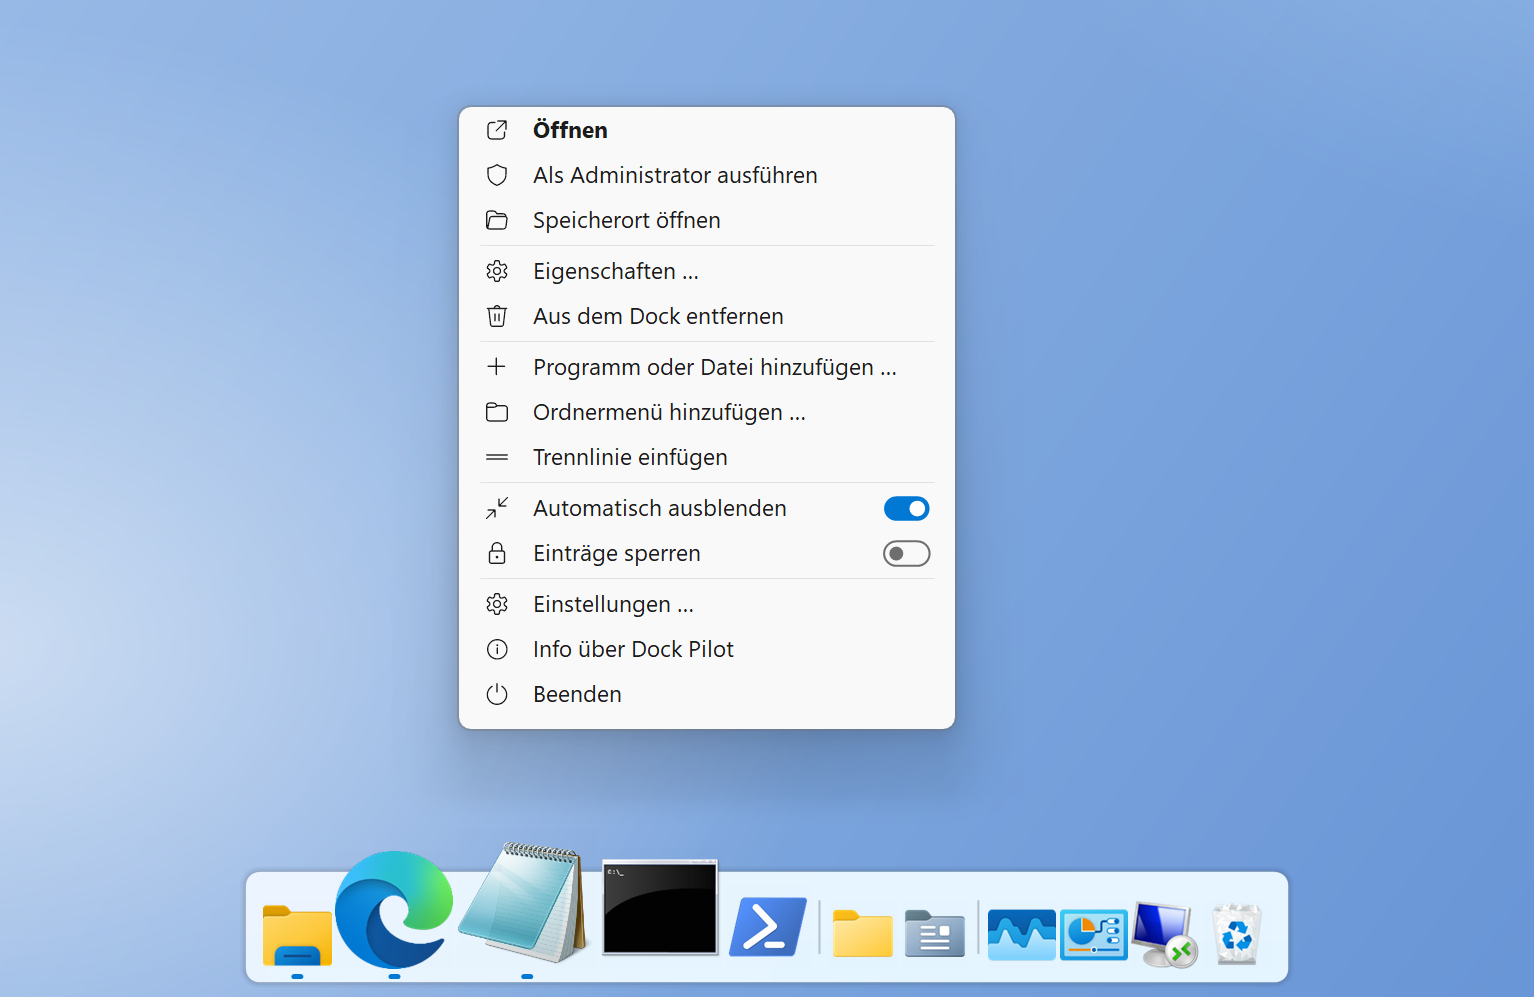
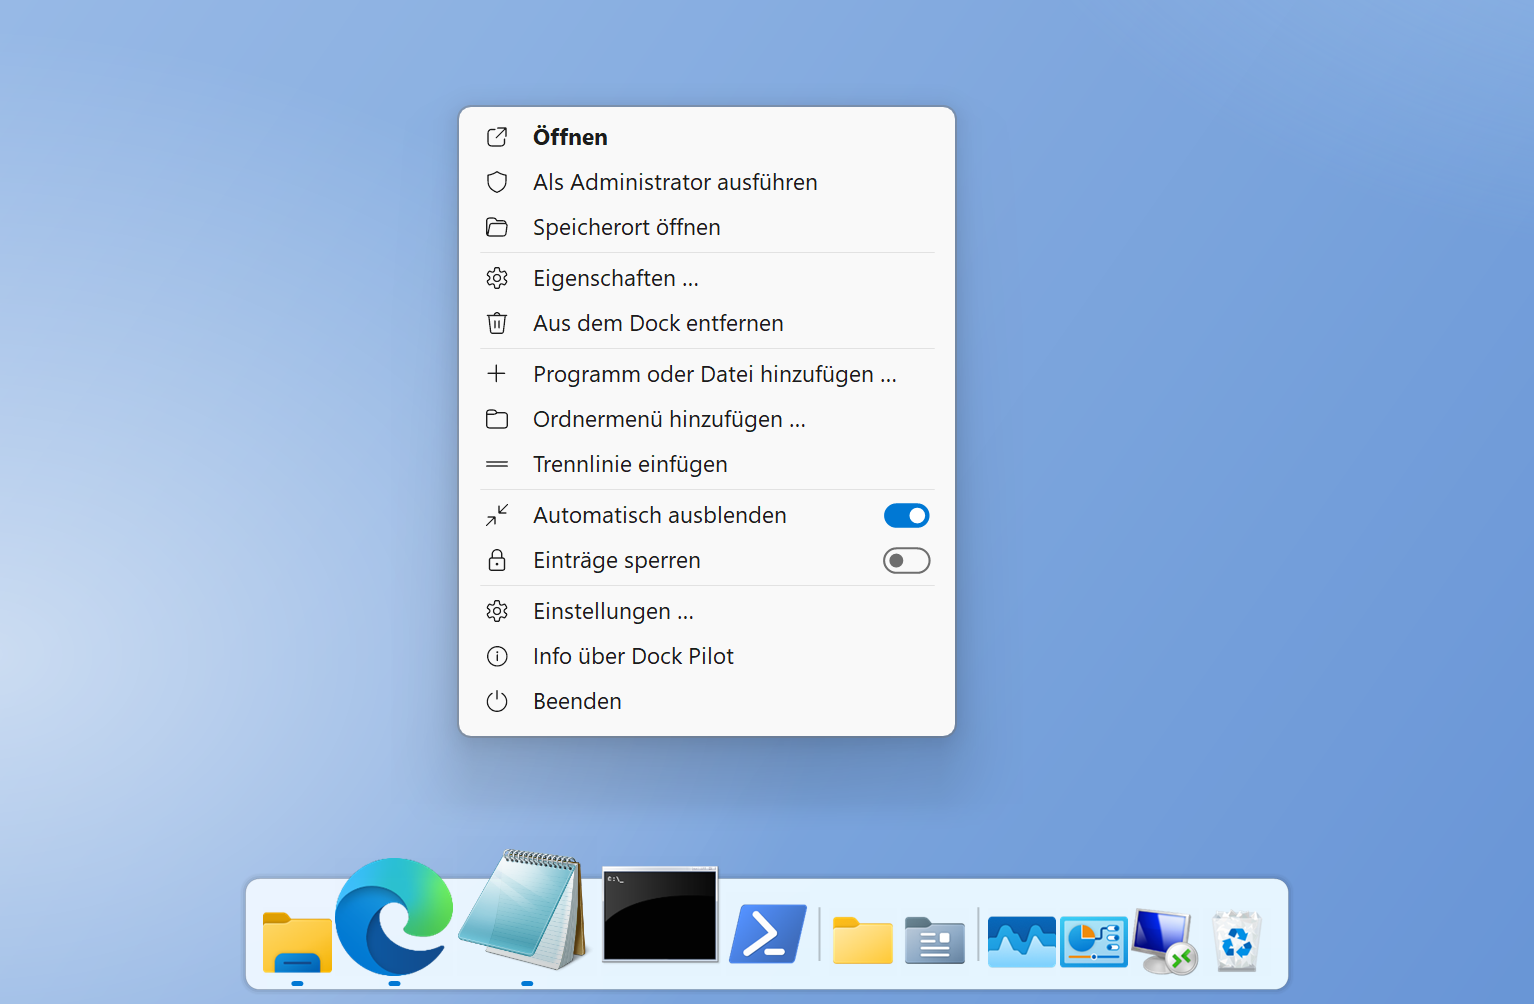
Dock Pilot 1.26.2026.1111 – Extras-Menü, Navigation, Menüabstände
Knopf Extras unten in der Navigation, Ausklappen per Mouse-Over, Symbolgrößen der Navigation, gleiche Abstände oben und unten in Menüs, neue Screenshots.

diff --git a/Quellcode/SettingsForm.cs b/Quellcode/SettingsForm.cs
@@ -6,6 +6,7 @@
 using System;
 using System.Collections.Generic;
 using System.Drawing;
+using System.IO;
 using System.Drawing.Drawing2D;
 using System.Windows.Forms;
 using Microsoft.Win32;
@@ -44,6 +45,7 @@ namespace DockPilot
         private bool _navOpen;                    // nicht angepinnt, aber ausgeklappt (liegt über dem Inhalt)
         private int _navSpace;                    // Platz, den die Navigation links belegt (230 bzw. 68 × Skalierung)
         private readonly Timer _navTimer = new Timer { Interval = 400 };
+        private readonly Timer _navHover = new Timer { Interval = 400 }; // nicht angepinnt: Maus kurz auf der Navigation → ausklappen
         private Control[] _content;               // rechts der Navigation, wird beim Anpinnen verschoben
         private Card[] _pages;
         private Stepper _labelSize;
@@ -59,7 +61,8 @@ namespace DockPilot
         private Slider _showDelay, _hideDelay;
         private Label _showValue, _hideValue;
         private ComboHotkeyBox _hotkey;
-        private ModernButton _btnSave, _btnCancel, _btnDefaults;
+        private ModernButton _btnSave, _btnCancel;
+        private ContextMenuStrip _extrasMenu;
         private Label _error;
         private PictureBox _logo;
         private UpdateBar _bar;
@@ -351,7 +354,7 @@ namespace DockPilot
             tip.SetToolTip(hkLabel, "Blendet das Dock ein und aus. Feld anklicken und Tasten drücken,\nEntf löscht das Tastenkürzel.");
 
             // --- Seite: Allgemein
-            Card general = MakeCard("Allgemein", new Rectangle(contentX, top, colW, S(314)));
+            Card general = MakeCard("Allgemein", new Rectangle(contentX, top, colW, S(206)));
             _autostart = MakeToggle();
             AddRow(general, "Mit Windows starten", _autostart, S(54));
             ModernButton import = new ModernButton();
@@ -376,40 +379,6 @@ namespace DockPilot
                 }
             };
 
-            ModernButton export = new ModernButton();
-            export.Text = "Exportieren …";
-            export.Size = new Size(S(130), S(30));
-            Label expLabel = AddRow(general, "Dock und Einstellungen sichern", export, S(196));
-            tip.SetToolTip(expLabel, "Schreibt Einträge, Einstellungen und übernommene Symbole in eine Datei,\nz. B. für einen zweiten PC. Gesichert wird der zuletzt gespeicherte Stand.");
-            export.Click += delegate
-            {
-                using (SaveFileDialog dlg = new SaveFileDialog())
-                {
-                    dlg.Title = "Dock und Einstellungen sichern";
-                    dlg.Filter = Backup.Filter;
-                    dlg.FileName = "Dock Pilot Sicherung " + DateTime.Now.ToString("yyyy-MM-dd") + Backup.Extension;
-                    if (dlg.ShowDialog(this) != DialogResult.OK) return;
-                    string err = Backup.Export(dlg.FileName);
-                    if (err != null) ShowStatus("Sicherung fehlgeschlagen: " + err, false);
-                    else ShowStatus("Sicherung gespeichert.", true);
-                }
-            };
-            ModernButton restore = new ModernButton();
-            restore.Text = "Importieren …";
-            restore.Size = new Size(S(130), S(30));
-            Label resLabel = AddRow(general, "Sicherung wiederherstellen", restore, S(246));
-            tip.SetToolTip(resLabel, "Ersetzt Einträge und Einstellungen durch den Stand aus einer Sicherungsdatei.");
-            restore.Click += delegate
-            {
-                if (ImportBackup != null && ImportBackup(this))
-                {
-                    _edit.CopyFrom(_original);
-                    LoadValues(false);
-                    _baseline = Snapshot();
-                    ShowStatus("Sicherung wiederhergestellt.", true);
-                }
-            };
-
             _pages = new Card[] { pos, icons, zoomCard, label, behave, general };
             _nav.Add('\uE7F4', "Position");
             _nav.Add('\uE8A9', "Symbole");
@@ -424,19 +393,33 @@ namespace DockPilot
                 else { _navOpen = !_navOpen; ApplyNav(); }
             };
             _nav.PinClicked += delegate { SetNavPinned(!_original.NavPinned); };
+            _nav.ExtrasClicked += delegate { ShowExtrasMenu(); };
             _navTimer.Tick += delegate
             {
                 // ausgeklappt, nicht angepinnt: wieder einklappen, sobald die Maus die Navigation verlässt
                 if (!_navOpen || _original.NavPinned || !Visible) return;
+                if (_extrasMenu != null && !_extrasMenu.IsDisposed && _extrasMenu.Visible) return; // Extras-Menü offen
                 if (!_nav.RectangleToScreen(_nav.ClientRectangle).Contains(Cursor.Position)) { _navOpen = false; ApplyNav(); }
             };
             _navTimer.Start();
+            // nicht angepinnt: verweilt die Maus kurz auf der eingeklappten Navigation, klappt sie aus (Namen sichtbar)
+            // und beim Verlassen wieder ein – ☰ funktioniert weiterhin
+            _nav.MouseEnter += delegate { if (!_original.NavPinned && !_navOpen) _navHover.Start(); };
+            _nav.MouseLeave += delegate { _navHover.Stop(); };
+            _navHover.Tick += delegate
+            {
+                _navHover.Stop();
+                if (_original.NavPinned || _navOpen || !Visible) return;
+                if (_extrasMenu != null && !_extrasMenu.IsDisposed && _extrasMenu.Visible) return;
+                if (!_nav.RectangleToScreen(_nav.ClientRectangle).Contains(Cursor.Position)) return;
+                _navOpen = true;
+                ApplyNav();
+            };
             ShowPage(0);
 
             // --- Schaltflächen
             int by = top + pageH + S(24);
             int right = contentX + colW;
-            _btnDefaults = MakeButton("Standardwerte", false, new Rectangle(contentX, by, S(140), S(34)));
             _btnCancel = MakeButton("Abbrechen", false, new Rectangle(right - S(120) - S(10) - S(120), by, S(120), S(34)));
             _btnSave = MakeButton("Speichern", true, new Rectangle(right - S(120), by, S(120), S(34)));
             _error = MakeLabel("", 12.5f, false);
@@ -444,19 +427,9 @@ namespace DockPilot
             _error.AutoEllipsis = true;
             _error.TextAlign = ContentAlignment.MiddleLeft;
             _error.Tag = "error";
-            _error.Bounds = new Rectangle(contentX + S(140) + S(12), by, _btnCancel.Left - S(12) - (contentX + S(140) + S(12)), S(34));
+            _error.Bounds = new Rectangle(contentX, by, _btnCancel.Left - S(12) - contentX, S(34));
             Controls.Add(_error);
-            _content = new Control[] { pos, icons, zoomCard, label, behave, general, _btnDefaults, _btnCancel, _btnSave, _error };
-            _btnDefaults.Click += delegate
-            {
-                Settings d = new Settings();
-                d.FirstRun = false;
-                d.UpdateCheck = _edit.UpdateCheck;
-                d.LastUpdateCheck = _edit.LastUpdateCheck;
-                d.NavPinned = _edit.NavPinned;
-                _edit.CopyFrom(d);
-                LoadValues(false);
-            };
+            _content = new Control[] { pos, icons, zoomCard, label, behave, general, _btnCancel, _btnSave, _error };
             _btnCancel.Click += delegate { _discard = true; Close(); }; // Abbrechen verwirft ohne Rückfrage
             _btnSave.Click += delegate { Save(); };
 
@@ -868,6 +841,88 @@ namespace DockPilot
             BeginInvoke((MethodInvoker)ApplyTheme);
         }
 
+        // ------------------------------------------------------------------ Extras (unten in der Navigation)
+
+        /// <summary>„Extras“: Menü rechts über dem Knopf (Info, Anleitung, Fehlerprotokoll, Sichern/Wiederherstellen, Standardwerte).</summary>
+        private void ShowExtrasMenu()
+        {
+            if (_extrasMenu != null) { MenuBuilder.DisposeDeep(_extrasMenu.Items); _extrasMenu.Dispose(); _extrasMenu = null; }
+            MenuBuilder mb = new MenuBuilder();
+            mb.Menu.Items.Add(mb.Item("Info über Dock Pilot", MenuHelper.Info, delegate { AboutDialog.ShowFor(this); }));
+            mb.Menu.Items.Add(mb.Item("Anleitung öffnen", MenuHelper.Document, delegate
+            {
+                OpenFile(Path.Combine(AppInfo.ExeDirectory, "Anleitung.txt"), "Die Anleitung wurde nicht gefunden.");
+            }));
+            mb.Menu.Items.Add(mb.Item("Fehlerprotokoll öffnen", MenuHelper.Log, delegate
+            {
+                OpenFile(Path.Combine(Settings.DataDirectory, "Fehler.log"), "Es gibt noch kein Fehlerprotokoll.");
+            }));
+            mb.Separator();
+            mb.Menu.Items.Add(mb.Item("Dock und Einstellungen sichern …", '\uE74E', ExportBackup));
+            mb.Menu.Items.Add(mb.Item("Sicherung wiederherstellen …", MenuHelper.Download, RestoreBackup));
+            mb.Separator();
+            mb.Menu.Items.Add(mb.Item("Standardwerte", MenuHelper.Refresh, ResetDefaults));
+            mb.End();
+            ContextMenuStrip m = mb.Menu;
+            _extrasMenu = m;
+            _nav.ExtrasActive = true; // ausgewählt, solange das Menü offen ist
+            m.Closed += delegate
+            {
+                if (!_nav.IsDisposed) _nav.ExtrasActive = false;
+                CloseNav();
+            };
+            Rectangle r = _nav.ExtrasBounds;
+            m.Show(_nav, new Point(r.Right + S(4), r.Bottom), ToolStripDropDownDirection.AboveRight);
+        }
+
+        private void OpenFile(string path, string missing)
+        {
+            try
+            {
+                if (!File.Exists(path)) { ShowStatus(missing, false); return; }
+                Shell.Open(path, "", "");
+            }
+            catch (Exception ex) { ShowStatus(ex.Message, false); }
+        }
+
+        /// <summary>Einträge, Einstellungen und Symbole in eine Datei sichern (der zuletzt gespeicherte Stand).</summary>
+        private void ExportBackup()
+        {
+            using (SaveFileDialog dlg = new SaveFileDialog())
+            {
+                dlg.Title = "Dock und Einstellungen sichern";
+                dlg.Filter = Backup.Filter;
+                dlg.FileName = "Dock Pilot Sicherung " + DateTime.Now.ToString("yyyy-MM-dd") + Backup.Extension;
+                if (dlg.ShowDialog(this) != DialogResult.OK) return;
+                string err = Backup.Export(dlg.FileName);
+                if (err != null) ShowStatus("Sicherung fehlgeschlagen: " + err, false);
+                else ShowStatus("Sicherung gespeichert.", true);
+            }
+        }
+
+        /// <summary>Sicherung einspielen: ersetzt Einträge und Einstellungen (mit Rückfrage im Tray-Teil).</summary>
+        private void RestoreBackup()
+        {
+            if (ImportBackup == null || !ImportBackup(this)) return;
+            _edit.CopyFrom(_original);
+            LoadValues(false);
+            _baseline = Snapshot();
+            ShowStatus("Sicherung wiederhergestellt.", true);
+        }
+
+        /// <summary>Alle Seiten auf die Standardwerte setzen; gilt erst nach „Speichern“.</summary>
+        private void ResetDefaults()
+        {
+            Settings d = new Settings();
+            d.FirstRun = false;
+            d.UpdateCheck = _edit.UpdateCheck;
+            d.LastUpdateCheck = _edit.LastUpdateCheck;
+            d.NavPinned = _edit.NavPinned;
+            _edit.CopyFrom(d);
+            LoadValues(false);
+            ShowStatus("Standardwerte geladen – mit „Speichern“ übernehmen.", true);
+        }
+
         /// <summary>Gibt es Änderungen, die noch nicht gespeichert sind? (Zustand der Felder mit dem gespeicherten vergleichen)</summary>
         private bool HasChanges()
         {
@@ -896,7 +951,7 @@ namespace DockPilot
         {
             if (!_discard && !Demo.Active && e.CloseReason == CloseReason.UserClosing && HasChanges())
             {
-                DialogResult r = MessageBox.Show(this, "Die Änderungen in den Einstellungen sind noch nicht gespeichert.\n\nÄnderungen verwerfen?",
+                DialogResult r = MessageBox.Show(this, "Die Änderungen sind noch nicht gespeichert.\n\nÄnderungen verwerfen?",
                     AppInfo.Name, MessageBoxButtons.YesNo, MessageBoxIcon.Question, MessageBoxDefaultButton.Button2);
                 if (r != DialogResult.Yes) e.Cancel = true;
             }
@@ -953,10 +1008,12 @@ namespace DockPilot
         {
             if (disposing)
             {
+                if (_extrasMenu != null) { MenuBuilder.DisposeDeep(_extrasMenu.Items); _extrasMenu.Dispose(); }
                 SystemEvents.UserPreferenceChanged -= OnUserPreferenceChanged;
                 Updater.AvailableChanged -= _onUpdateChanged;
                 if (_logo != null && _logo.Image != null) _logo.Image.Dispose();
                 _navTimer.Dispose();
+                _navHover.Dispose();
             }
             base.Dispose(disposing);
         }

diff --git a/Quellcode/DockControls.cs b/Quellcode/DockControls.cs
@@ -255,7 +255,9 @@ namespace DockPilot
     internal sealed class NavList : Control
     {
         private const char GlyphMenu = '\uE700', GlyphPin = '\uE718', GlyphUnpin = '\uE77A';
-        private const int HitMenu = -2, HitPin = -3;
+        private const int HitMenu = -2, HitPin = -3, HitExtras = -4;
+        private const char GlyphExtras = '\uE713';
+        private bool _extrasActive;
 
         private readonly float _sc;
         private readonly List<KeyValuePair<char, string>> _items = new List<KeyValuePair<char, string>>();
@@ -263,7 +265,17 @@ namespace DockPilot
         private bool _pinned = true, _overlay;
         private readonly ToolTip _tip = new ModernToolTip();
 
-        public event EventHandler SelectedChanged, MenuClicked, PinClicked;
+        public event EventHandler SelectedChanged, MenuClicked, PinClicked, ExtrasClicked;
+
+        /// <summary>Knopf „Extras“ unten hervorheben, solange sein Menü offen ist.</summary>
+        public bool ExtrasActive
+        {
+            get { return _extrasActive; }
+            set { _extrasActive = value; Invalidate(); }
+        }
+
+        /// <summary>Lage des Knopfs „Extras“ (für das Menü rechts darüber).</summary>
+        public Rectangle ExtrasBounds { get { return ExtrasRect; } }
 
         public NavList(float scale)
         {
@@ -313,6 +325,9 @@ namespace DockPilot
 
         private Rectangle PinRect { get { return new Rectangle(Width - S(10) - S(36), S(4) + S(2), S(36), S(36)); } }
 
+        /// <summary>Unten: „Extras“ (Zahnrad), wie die Einträge 40 hoch mit 10 Rand.</summary>
+        private Rectangle ExtrasRect { get { return new Rectangle(S(10), Height - S(10) - S(40), Width - S(20), S(40)); } }
+
         private Rectangle ItemRect(int i)
         {
             int top = S(4) + S(40) + S(10);
@@ -323,6 +338,7 @@ namespace DockPilot
         {
             if (MenuRect.Contains(p)) return HitMenu;
             if (Wide && PinRect.Contains(p)) return HitPin;
+            if (ExtrasRect.Contains(p)) return HitExtras;
             for (int i = 0; i < _items.Count; i++) if (ItemRect(i).Contains(p)) return i;
             return -1;
         }
@@ -336,6 +352,7 @@ namespace DockPilot
             Invalidate();
             string tip = h == HitMenu ? "Navigation aus- bzw. einklappen"
                 : h == HitPin ? (_pinned ? "Navigation lösen (einklappbar)" : "Navigation anpinnen")
+                : h == HitExtras && !Wide ? "Extras"
                 : h >= 0 && !Wide ? _items[h].Value : null;
             _tip.SetToolTip(this, tip);
         }
@@ -365,6 +382,7 @@ namespace DockPilot
             if (!same) return;
             if (h == HitMenu) { if (MenuClicked != null) MenuClicked(this, EventArgs.Empty); }
             else if (h == HitPin) { if (PinClicked != null) PinClicked(this, EventArgs.Empty); }
+            else if (h == HitExtras) { if (ExtrasClicked != null) ExtrasClicked(this, EventArgs.Empty); }
             else if (h >= 0)
             {
                 if (h == _sel) { if (SelectedChanged != null) SelectedChanged(this, EventArgs.Empty); } // auch nochmal: klappt die Navigation ein
@@ -416,6 +434,18 @@ namespace DockPilot
                             TextFormatFlags.Left | TextFormatFlags.VerticalCenter | TextFormatFlags.SingleLine | TextFormatFlags.EndEllipsis | TextFormatFlags.NoPrefix | TextFormatFlags.NoPadding);
             }
 
+            // unten: Extras
+            {
+                Rectangle r = ExtrasRect;
+                Fill(g, r, _extrasActive ? selFill : _down == HitExtras ? downFill : _hover == HitExtras ? hoverFill : Color.Empty);
+                DrawGlyph(g, GlyphExtras, 14f, new Rectangle(r.X + S(14), r.Y, S(20), r.Height), p.Text);
+                int tx = r.X + S(46);
+                if (Wide && r.Right - S(8) - tx > S(20))
+                    using (Font f = Theme.UiFont(9.5f * 96f / 72f * _sc, FontStyle.Regular))
+                        TextRenderer.DrawText(g, "Extras", f, new Rectangle(tx, r.Y, r.Right - S(8) - tx, r.Height), p.Text,
+                            TextFormatFlags.Left | TextFormatFlags.VerticalCenter | TextFormatFlags.SingleLine | TextFormatFlags.NoPrefix | TextFormatFlags.NoPadding);
+            }
+
             if (_overlay)
                 using (Pen pen = new Pen(p.Dark ? Color.FromArgb(60, 60, 60) : Color.FromArgb(224, 224, 224)))
                     g.DrawLine(pen, Width - 1, 0, Width - 1, Height);
@@ -429,11 +459,18 @@ namespace DockPilot
                 g.FillPath(b, path);
         }
 
+        /// <summary>
+        /// Symbol wie in WindowGrid (NavButton): Kästchen pt × 96/72 × Skalierung, das Zeichen darin nach seinen
+        /// tatsächlich gezeichneten Pixeln mittig (MenuHelper.Glyph) – sonst wirken die Symbole zu groß.
+        /// </summary>
         private void DrawGlyph(Graphics g, char glyph, float pt, Rectangle r, Color color)
         {
-            using (Font gf = new Font(Theme.IconFontName, pt * _sc * 96f / 72f, GraphicsUnit.Pixel))
-                TextRenderer.DrawText(g, glyph.ToString(), gf, r, color,
-                    TextFormatFlags.HorizontalCenter | TextFormatFlags.VerticalCenter | TextFormatFlags.NoPadding | TextFormatFlags.SingleLine);
+            int size = (int)Math.Round(pt * 96f / 72f * _sc);
+            using (Image img = MenuHelper.Glyph(glyph, color, size))
+            {
+                if (img == null) return;
+                g.DrawImage(img, r.X + (r.Width - size) / 2, r.Y + (r.Height - size) / 2, size, size);
+            }
         }
     }
 

diff --git a/Quellcode/DockMenus.cs b/Quellcode/DockMenus.cs
@@ -181,6 +181,10 @@ namespace DockPilot
         /// <summary>Unsichtbare Leerzeile unter dem letzten Eintrag (Padding.Bottom wird von Windows ignoriert).</summary>
         public void End()
         {
+            // oben gleich viel Luft wie unten: Padding oben (4) + 2 = Leerzeile unten (6), wie bei den Ordnermenüs
+            // (nicht beim Tray-Menü mit Kopfzeile – dessen Maße folgen der Vorlage Monitor Dimmer)
+            if (Menu.Items.Count > 0 && !(Menu.Items[0] is MenuSpacer) && !(Menu.Items[0] is MenuHeader))
+                Menu.Items.Insert(0, new MenuSpacer((int)Math.Round(2 * Scale)));
             Menu.Items.Add(new MenuSpacer((int)(6 * Scale)));
         }
 
